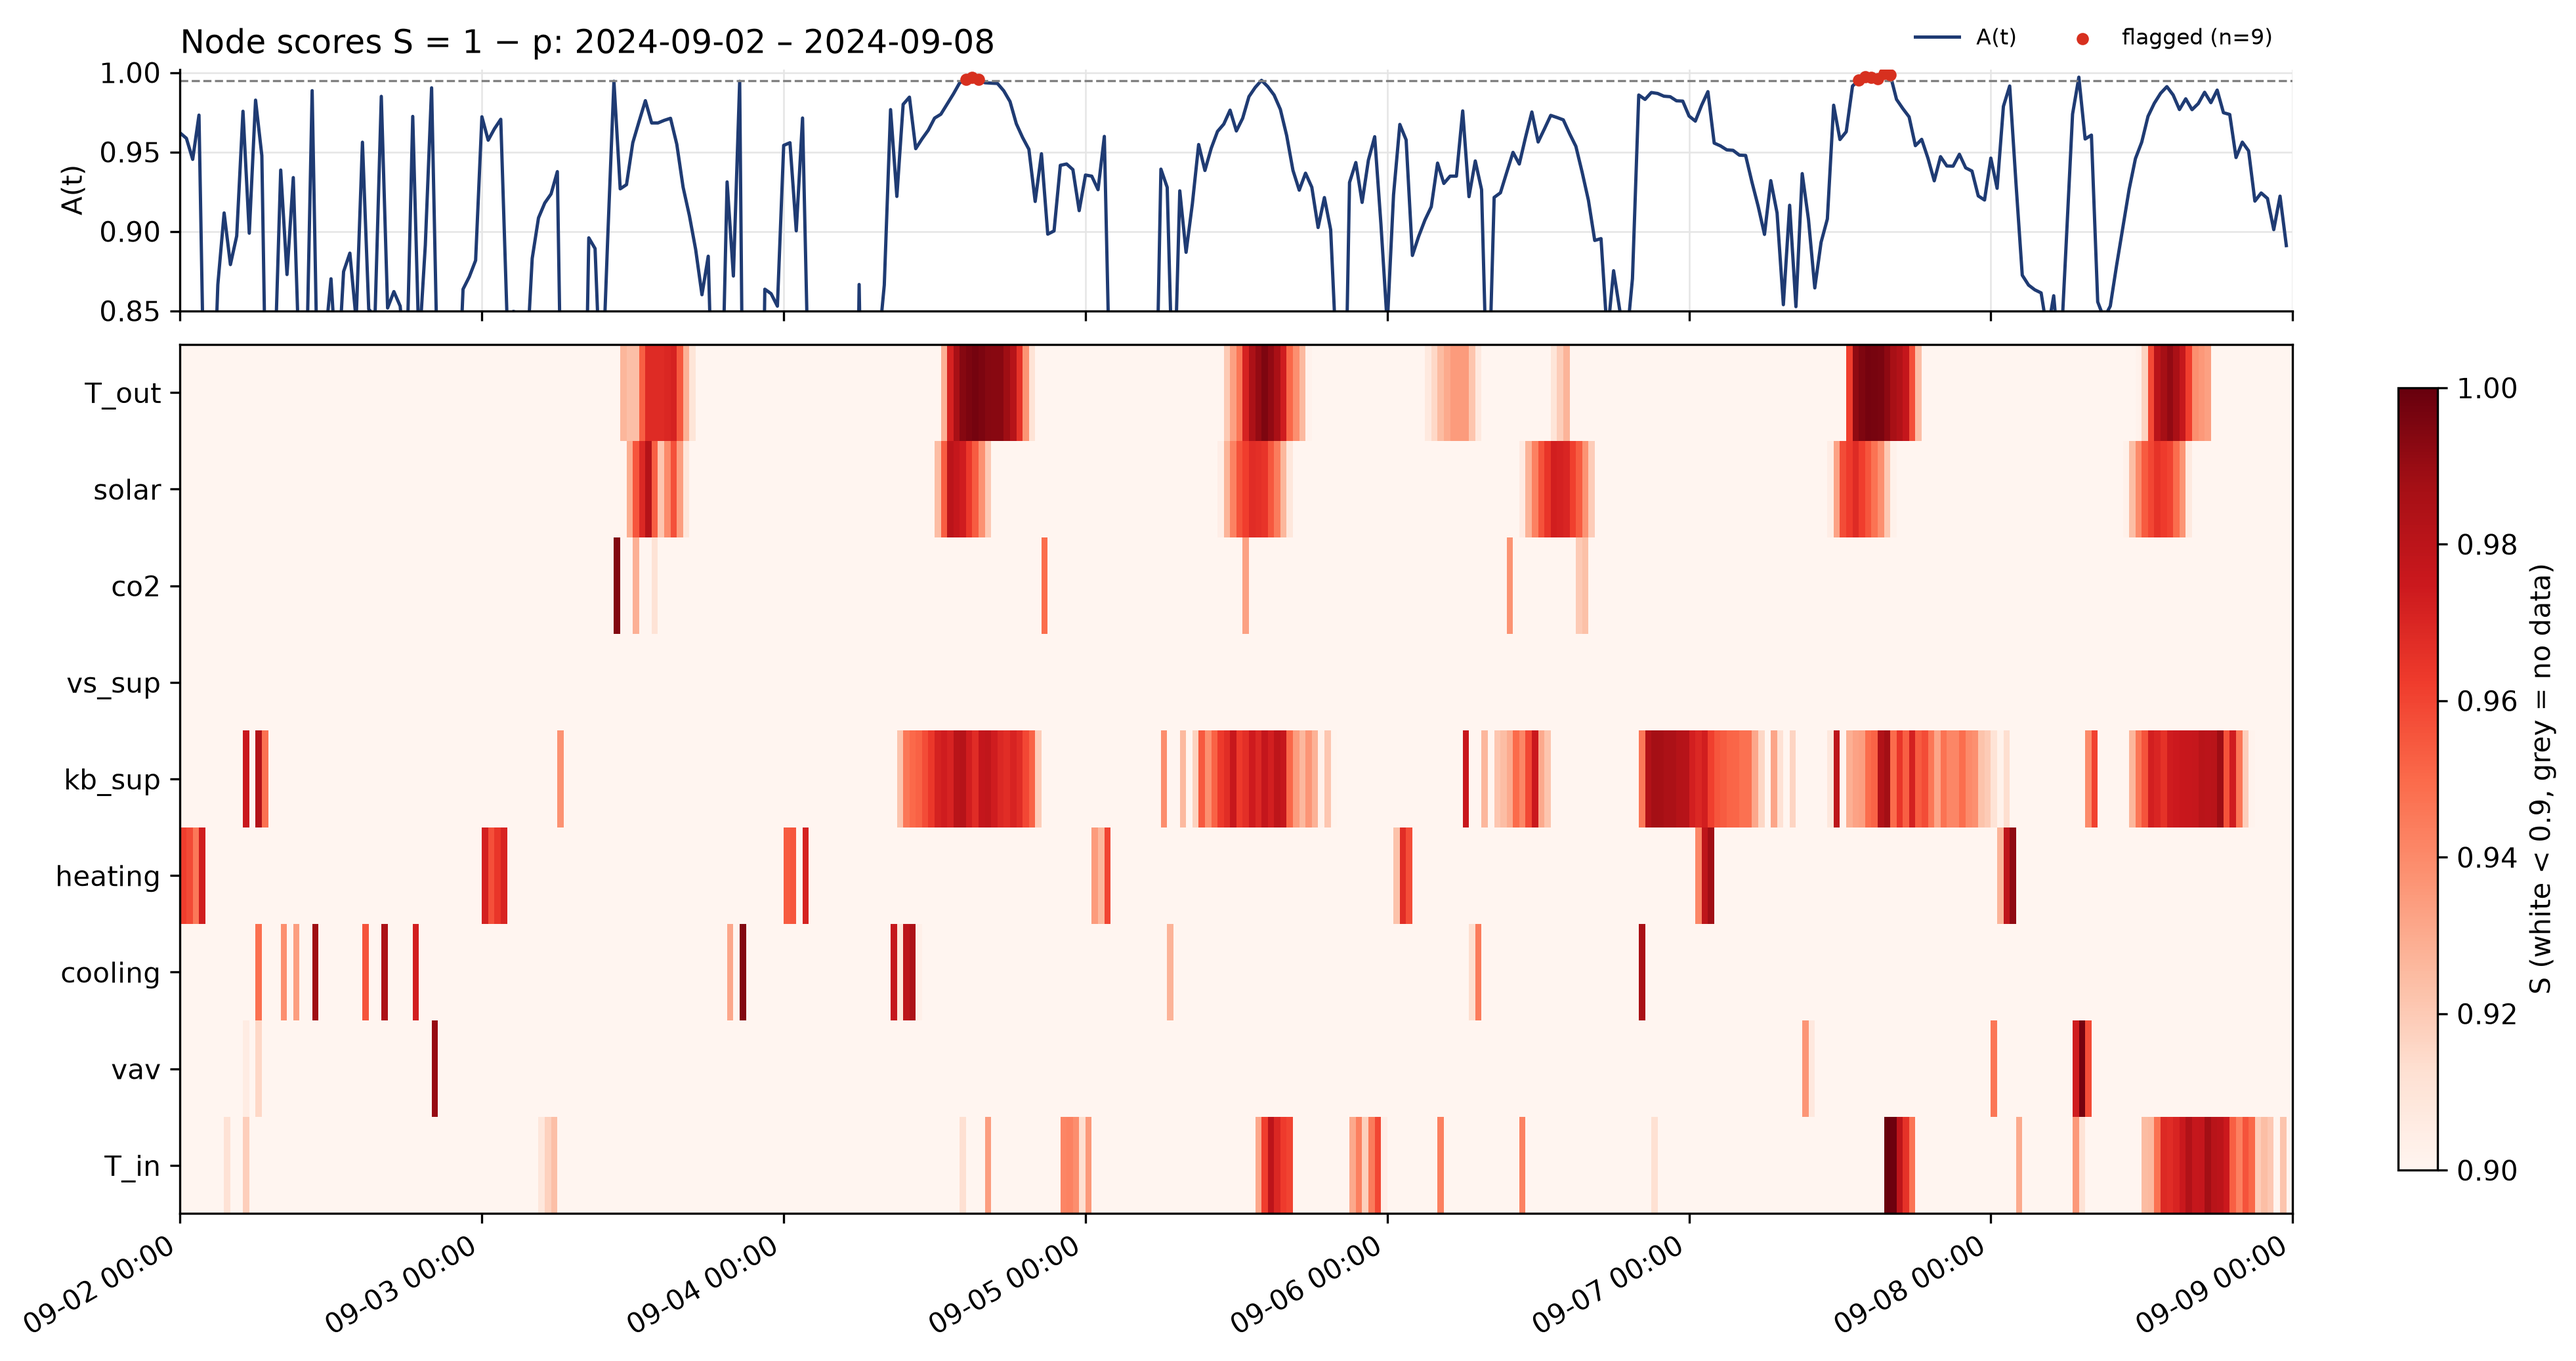
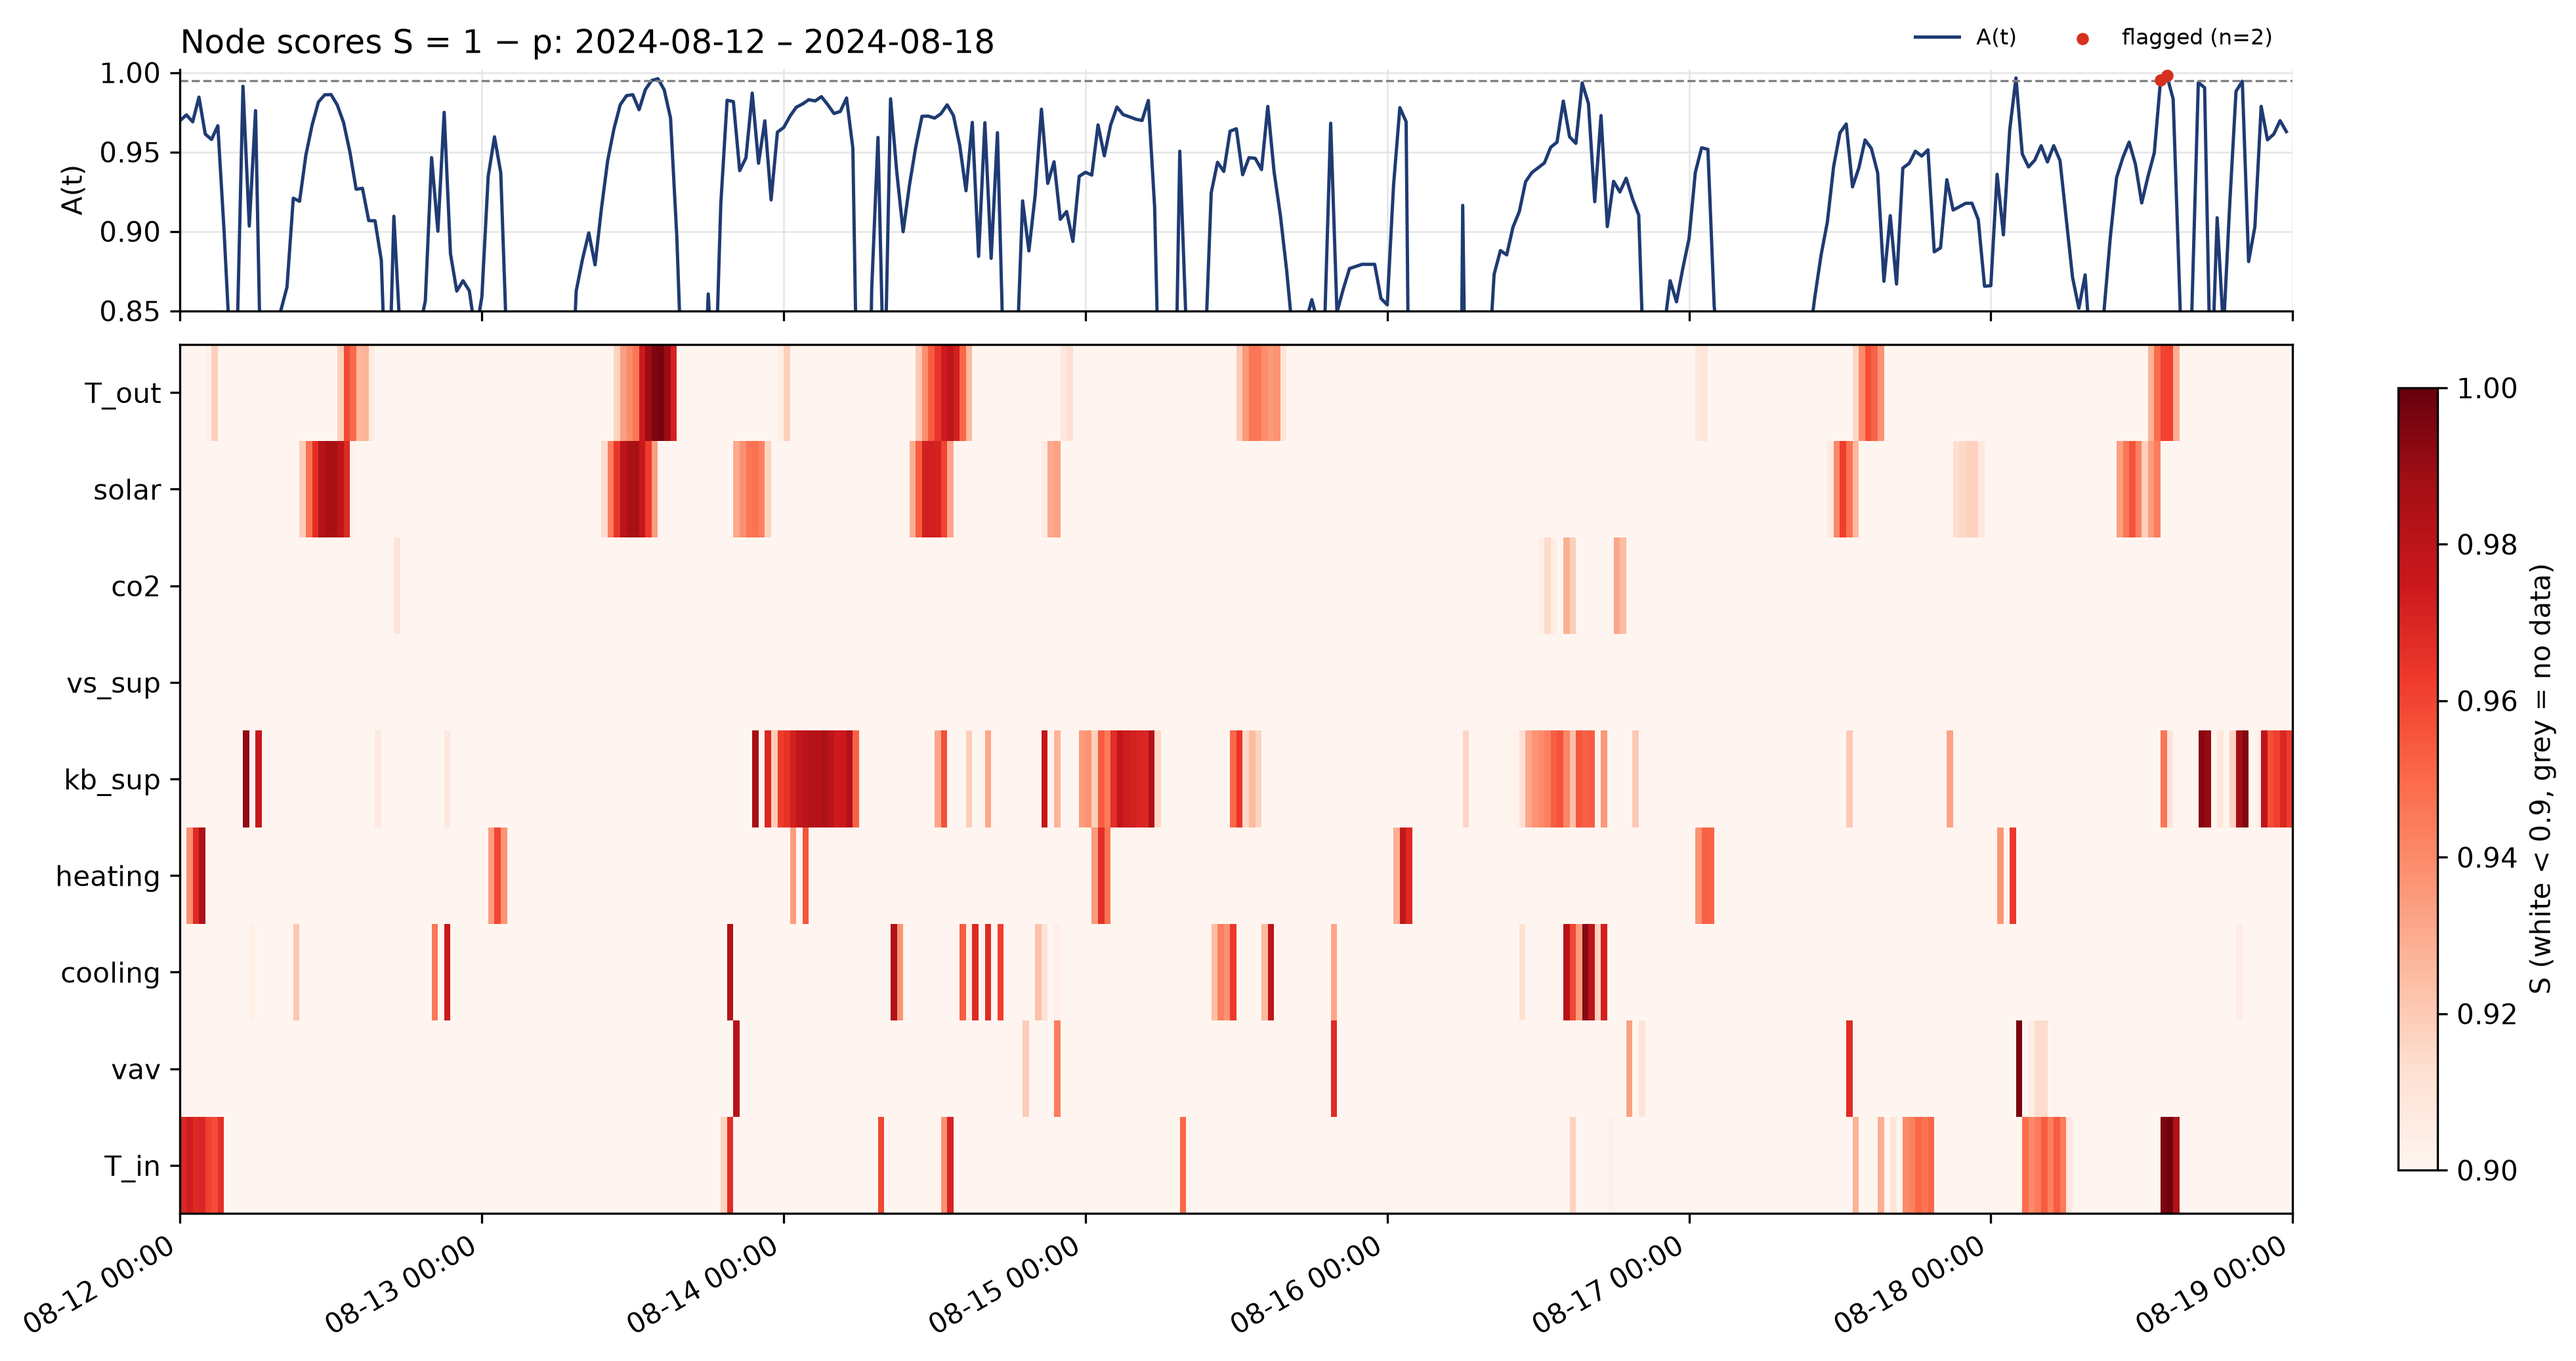
causal initial edit done

diff --git a/causal.py b/causal.py
@@ -11,9 +11,10 @@ from sklearn.metrics import r2_score, mean_absolute_error
 import conditional_dist as cd
 
 
-_TIME = ["hour_sin", "hour_cos", "workday"]   # time-of-day and day-type features
+# keep only one of the hour data, either cos or sin 
+_TIME = ["hour_sin", "workday"]   # time-of-day and day-type features
 
-# tunable parameters (schedule, holidays and time zone come from conditional_dist.CONFIG)
+# Configuration
 CONFIG = {
     "key_map": {
         "indoor_temperature": "T_in",
@@ -21,9 +22,9 @@ CONFIG = {
         "outdoor_temperature": "T_out",
         "solar_radiation": "solar",
         "co2": "co2",
-        "heating": "heating",
-        "cooling": "cooling",
-        "VAV": "vav",
+        "heating": "heating",  # radiator valve position, 0-100%
+        "cooling": "cooling",  # chilled beam chilled water valve position, 0-100%
+        "VAV": "vav",    # chilled beam air damper position, 0-100%
         "VS02_supply": "vs_sup",
         "VS02_return": "vs_ret",
         "KB02_supply": "kb_sup",
@@ -35,46 +36,46 @@ CONFIG = {
     "T_out_short": "3h",
     "T_out_long": "24h",
     "solar_halflife": "4h",
-    "lag": "30min",              # one sample; breaks the T_in <-> controller loop
+    "lag": "30min",        # one sample, breaks the T_in controller loop
 
-    # causal graph: node -> parent feature columns (edit here)
-    "root_nodes": ["T_out", "solar", "co2"],
+    # causal graph: node to parent feature columns
+    "root_nodes": ["T_out", "solar", "co2"],    # independent variables, basically weather and occupancy
     "graph": {
-        "vs_sup": ["T_out_3h"] + _TIME,
-        "kb_sup": ["T_out_3h"] + _TIME,
-        "heating": ["T_in_lag", "setpoint", "T_out_3h"] + _TIME,
-        "cooling": ["T_in_lag", "setpoint", "T_out_3h"] + _TIME,
-        "vav": ["T_in_lag", "setpoint", "co2_lag", "T_out_3h"] + _TIME,
-        "vs_ret": ["vs_sup", "heating", "T_out_3h"],
-        "kb_ret": ["kb_sup", "cooling", "T_out_3h"],
-        "T_in": ["T_out_3h", "T_out_24h", "solar_acc", "co2", "vav_lag",
+        "vs_sup": ["T_out_short"] + _TIME,
+        "kb_sup": ["T_out_short"] + _TIME,
+        "heating": ["T_in_lag", "setpoint", "T_out_short"] + _TIME,
+        "cooling": ["T_in_lag", "setpoint", "T_out_short"] + _TIME,
+        "vav": ["T_in_lag", "setpoint", "co2_lag", "T_out_short"] + _TIME,
+        "vs_ret": ["vs_sup", "heating", "T_out_short"],
+        "kb_ret": ["kb_sup", "cooling", "T_out_short"],
+        "T_in": ["T_out_short", "T_out_long", "solar_acc", "co2", "vav_lag",
                  "heat_del_lag", "cool_del_lag"] + _TIME,
     },
     "return_nodes": ["vs_ret", "kb_ret"],
-    "include_returns": False,    # circuits likely serve many rooms
-    # which graph nodes a derived feature comes from (anything else maps to itself)
+    "include_returns": False,
+
     "feature_sources": {
-        "T_out_3h": ["T_out"], "T_out_24h": ["T_out"], "solar_acc": ["solar"],
+        "T_out_short": ["T_out"], "T_out_long": ["T_out"], "solar_acc": ["solar"],
         "co2_lag": ["co2"], "vav_lag": ["vav"], "T_in_lag": ["T_in"],
         "heat_del_lag": ["heating", "vs_sup", "T_in"],
         "cool_del_lag": ["cooling", "kb_sup", "T_in"],
     },
-    "rs_drop_features": ["T_in_lag"],   # no T_in -> controller edges in the summary graph
+    "rs_drop_features": ["T_in_lag"],
 
     # mechanism models
     "hgb_params": {"max_iter": 200, "learning_rate": 0.1, "random_state": 0},
     "n_jobs": -1,
-    "root_window": "24h",        # rolling median baseline for T_out and solar
+    "root_window": "12h",        # rolling median baseline for T_out and solar
 
     # detection
     "score_threshold": 0.995,    # A(t) = 1 - min_i p_i
     "min_consecutive": 2,        # samples
     "event_max_gap_samples": 1,
-    "T_in_dev_min": 1.0,         # °C, mean |T_in - setpoint| for indoor-temperature events
+    "T_in_dev_min": 1.0,         # °C, mean abs(T_in - setpoint) for indoor-temperature events
     "alpha": 0.5,                # Eq. (1)
     "top_k": 3,
 
-    # known cases: (label, start, end), local time, end exclusive
+    # known cases:
     "cases": [
         ("2024-04-01", "2024-04-01 00:00", "2024-04-02 00:00"),
         ("2024-07-22 office hours", "2024-07-22 08:00", "2024-07-22 18:00"),
@@ -82,10 +83,10 @@ CONFIG = {
         ("2024-09-06", "2024-09-06 00:00", "2024-09-07 00:00"),
     ],
     "night_window": ("00:00", "02:00"),
-    "night_heating_min": 15.0,   # % heating valve = "spike"
+    "night_heating_min": 30.0,   # % heating valve
 
     # output
-    "heatmap_period": ("2024-09-02", "2024-09-09"),
+    "heatmap_period": ("2024-08-12", "2024-08-19"),
     "heatmap_vmin": 0.9,         # S below this is drawn white
     "make_plots": True,
 }
@@ -93,8 +94,21 @@ CONFIG = {
 
 # Helpers
 def _merge_config(config=None):
-    """CONFIG on top of conditional_dist.CONFIG, then the user overrides in 'config'."""
-    return cd._merge_config(config, base=cd._merge_config(CONFIG, base=cd.CONFIG))
+    """
+    CONFIG on top of conditional_dist.CONFIG, then the user overrides in 'config'.
+    The placeholders T_out_short / T_out_long in graph and feature_sources are
+    replaced by the column names, e.g. T_out_3h / T_out_24h.
+    """
+    cfg = cd._merge_config(config, base=cd._merge_config(CONFIG, base=cd.CONFIG))
+    names = {key: t_out_col(cfg, key) for key in ("T_out_short", "T_out_long")}
+    cfg["graph"] = {n: [names.get(f, f) for f in feats] for n, feats in cfg["graph"].items()}
+    cfg["feature_sources"] = {names.get(f, f): src for f, src in cfg["feature_sources"].items()}
+    return cfg
+
+
+def t_out_col(cfg, key):
+    """Column name of the T_out rolling mean for 'T_out_short' or 'T_out_long', e.g. T_out_3h."""
+    return f"T_out_{cfg[key]}"
 
 
 def _lag(s, lag):
@@ -110,7 +124,7 @@ def _rolling(s, window, cfg, how="mean"):
 
 
 def _window(obj, start, end):
-    """Rows of obj with start <= t < end (strings are local time)."""
+    """Rows of obj with start <= t < end."""
     tz = obj.index.tz
     start, end = cd._localize(start, tz), cd._localize(end, tz)
     return obj[(obj.index >= start) & (obj.index < end)]
@@ -134,11 +148,11 @@ def build_features(data, cfg):
     d["hour_sin"] = np.sin(2 * np.pi * hour / 24)
     d["hour_cos"] = np.cos(2 * np.pi * hour / 24)
 
-    d["T_out_3h"] = _rolling(d["T_out"], cfg["T_out_short"], cfg)
-    d["T_out_24h"] = _rolling(d["T_out"], cfg["T_out_long"], cfg)
+    for key in ("T_out_short", "T_out_long"):
+        d[t_out_col(cfg, key)] = _rolling(d["T_out"], cfg[key], cfg)
     d["solar_acc"] = d["solar"].ewm(halflife=cfg["solar_halflife"], times=d.index).mean()
 
-    # approximate delivered heating/cooling: valve position x water-room temperature difference
+    # approximate delivered heating/cooling: valve position * water-room temperature difference
     d["heat_del"] = d["heating"] * (d["vs_sup"] - d["T_in"]).clip(lower=0)
     d["cool_del"] = d["cooling"] * (d["T_in"] - d["kb_sup"]).clip(lower=0)
     for c in ["T_in", "co2", "vav", "heat_del", "cool_del"]:
@@ -148,8 +162,8 @@ def build_features(data, cfg):
 
 def summary_graph(cfg):
     """
-    Node -> parent nodes of the summary graph used for root cause scores, and
-    the topological order (roots first). Lagged T_in -> controller edges and
+    Node to parent nodes of the summary graph used for root cause scores, and
+    the topological order (roots first). Lagged T_in to controller edges and
     non-scored inputs (setpoint, hour, day type) are left out.
     """
     nodes = cfg["root_nodes"] + model_nodes(cfg)
@@ -207,7 +221,7 @@ def score_nodes(d, cfg):
 
 
 def mechanism_metrics(d, pred):
-    """Cross-validated R² and MAE per node (out-of-fold for models, baseline for roots)."""
+    """Cross-validated R^2 and MAE per node (out-of-fold for models, baseline for roots)."""
     rows = []
     for node in pred.columns:
         ok = d[node].notna() & pred[node].notna()
@@ -226,7 +240,7 @@ def flag_samples(A, cfg):
 
 
 def root_cause_scores(S, parents, order, alpha):
-    """Eq. (1): RS_i = S_i + alpha * mean(RS of children of i), children first."""
+    """RS_i = S_i + alpha * mean(RS of children of i), children nodes first."""
     children = {n: [c for c in order if n in parents[c]] for n in order}
     RS = pd.DataFrame(index=S.index, columns=order, dtype=float)
     for node in reversed(order):
